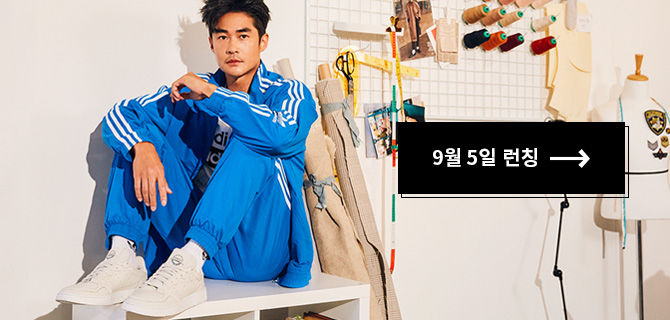
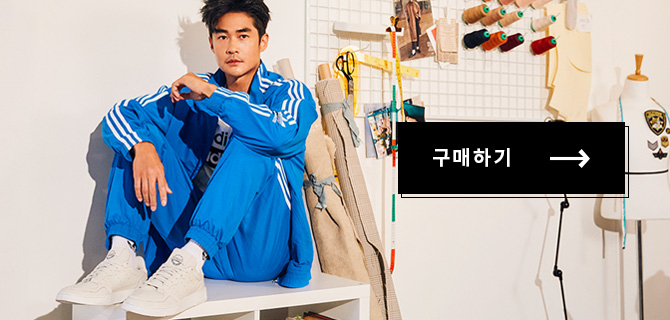
adi_CP_슈퍼코트

Changed region(s): [[0.6269, 0.4375, 0.806, 0.5312]]

diff --git a/mobile/html/adidas/2019/event/originals/supercourt/build/index.html b/mobile/html/adidas/2019/event/originals/supercourt/build/index.html
@@ -438,7 +438,7 @@
        </div>
 
        <div id="container">
-<style type="text/css">@media screen and (max-width: 320px){html{font-size:10px}}@media screen and (min-width: 800px){html{font-size:12px}}.pseudo-element{content:'';display:block}#supercourt{position:relative}#supercourt .button_area_v2{display:inline-block;margin-bottom:2vh}#supercourt .button_area_v2 a{font:700 .9rem/32px 'NotoSansKR';padding:0 5vw;letter-spacing:0;height:38px}#supercourt .button_area_v2 a .arrow{width:20px}#supercourt .button_area_v2 a .arrow::after{width:8px}#supercourt .button_area_v2 a .arrow::before{width:8px}#supercourt img{width:100%}#supercourt .main{position:relative}#supercourt .main .prd_shoe{position:absolute;top:50%;left:50%;transform:translate(-46%, -125%);z-index:2;width:84%}#supercourt .main .bg01{width:100%}#supercourt .main .slide{position:absolute;left:5%;top:25%}#supercourt .main .slide>div img{width:60%;z-index:-1}#supercourt .main .slide>img{position:absolute;top:0;left:0;width:60%;opacity:0;-webkit-opacity:0;-moz-opacity:0;transition:all 1s ease-in;-webkit-transition:all 1s ease-in;-moz-transition:all 1s ease-in}#supercourt .main .slide>img.on{opacity:1;-webkit-opacity:1;-moz-opacity:1}#supercourt .main .txt{text-align:center;position:absolute;bottom:50%;left:50%;transform:translate(-50%, 178%);width:100%}#supercourt .main .txt h1{font:2.9rem/2.9rem 'adinenuPro-bold';color:#000;text-align:center}#supercourt .main .txt p{font:400 1.1rem/1.5rem 'NotoSansKR';color:#000;margin:1rem 0 2rem;text-align:center;letter-spacing:.1rem}#supercourt .evt{position:relative}#supercourt .evt a{position:absolute;text-indent:-9999px;top:60%;left:12%;width:32%;height:7%}#supercourt .evt a.adi_btn{top:71%;left:67%}#supercourt .evt a.gift{left:47%;width:41%;height:7%}#supercourt .content_container{background:url("/images/adidas/2019/event/originals/supercourt/1908_a_supercourt_bg02_MO.jpg") no-repeat;background-position:center;background-size:100% 100%;padding-bottom:30px}#supercourt .content_container .aside{position:relative;text-align:center}#supercourt .content_container .aside img{padding-top:3rem;width:75%}#supercourt .content_container .aside .txt{padding:2rem 0 3rem}#supercourt .content_container .aside .txt h2{font:2rem/2rem 'adinenuPro-bold';color:#000;text-align:center;letter-spacing:.05rem}#supercourt .content_container .aside .txt p{font:500 1rem/1.5rem 'NotoSansKR';color:#000;text-align:center;padding:1rem 0 0;letter-spacing:.05rem}#supercourt .content_container .vid{position:relative;text-align:center;padding:2rem 0 6rem}#supercourt .content_container .vid>a{text-align:center}#supercourt .content_container .vid>a img{width:88%}#supercourt .content_container .vid .txt{padding:2rem 0 0 0}#supercourt .content_container .vid .txt h3{font:2rem/2rem 'adinenuPro-bold';color:#000;text-align:center}#supercourt .content_container .vid .txt p{font:500 1rem/1.5rem 'NotoSansKR';color:#000;text-align:center;padding:1rem 0 0;letter-spacing:.05rem}#supercourt .content_container .grid_cont{position:relative;padding:2rem 1.5rem 0}#supercourt .content_container .grid_cont div::after{display:block;content:'';clear:both}#supercourt .content_container .grid_cont div a{float:left;width:50%}#supercourt .content_container .sect_prdbox{position:relative;padding:6rem 0 5rem 0}#supercourt .content_container .sect_prdbox .banner_slider_wrap{position:relative;top:0rem}#supercourt .content_container .sect_prdbox .banner_slider_wrap ul .owl-item{text-align:center}#supercourt .content_container .sect_prdbox .banner_slider_wrap ul .owl-item li{position:relative;width:100%;margin:0 auto}#supercourt .content_container .sect_prdbox .banner_slider_wrap ul .owl-item li img{display:inline-block;width:90%}#supercourt .content_container .sect_prdbox .banner_slider_wrap ul .owl-nav{display:none}#supercourt .content_container .sect_prdbox .banner_slider_wrap ul .owl-controls{width:100%;text-align:center;position:relative;bottom:-1.5rem}#supercourt .content_container .sect_prdbox .banner_slider_wrap ul .owl-controls .owl-dots{padding-top:1rem;width:100%}#supercourt .content_container .sect_prdbox .banner_slider_wrap ul .owl-controls .owl-dots>div{margin:0 4px;display:inline-block;width:18px;height:2px;border:1px solid #000;box-sizing:border-box;background:#000}#supercourt .content_container .sect_prdbox .banner_slider_wrap ul .owl-controls .owl-dots>div.active{height:5px}#supercourt .content_container .sect_prdbox .txt{position:relative;top:3.5rem;text-align:center}#supercourt .content_container .sect_prdbox .txt h4{font:2rem/2rem 'adinenuPro-bold';color:#000;text-align:center;letter-spacing:.05rem;position:relative;display:inline-block}#supercourt .content_container .sect_prdbox .txt h4::after{display:block;content:'';clear:both;width:100%;background:#000;height:.23rem;position:absolute;bottom:-.9rem}#supercourt .content_container .sect_prdbox .txt p{font:500 1rem/1.5rem 'NotoSansKR';color:#000;text-align:center;padding:2rem 0;letter-spacing:.05rem}@media screen and (min-width: 414px){#supercourt .main .txt{transform:translate(-50%, 190%)}}
+<style type="text/css">@media screen and (max-width: 320px){html{font-size:10px}}@media screen and (min-width: 800px){html{font-size:12px}}.pseudo-element{content:'';display:block}#supercourt{position:relative}#supercourt .button_area_v2{display:inline-block;margin-bottom:2vh}#supercourt .button_area_v2 a{font:700 .9rem/35px 'NotoSansKR';padding:0 5vw;letter-spacing:0;height:38px}#supercourt .button_area_v2 a .arrow{width:20px}#supercourt .button_area_v2 a .arrow::after{width:8px}#supercourt .button_area_v2 a .arrow::before{width:8px}#supercourt img{width:100%}#supercourt .main{position:relative}#supercourt .main .prd_shoe{position:absolute;top:50%;left:50%;transform:translate(-46%, -125%);z-index:2;width:84%}#supercourt .main .bg01{width:100%}#supercourt .main .slide{position:absolute;left:5%;top:25%}#supercourt .main .slide>div img{width:60%;z-index:-1}#supercourt .main .slide>img{position:absolute;top:0;left:0;width:60%;opacity:0;-webkit-opacity:0;-moz-opacity:0;transition:all 1s ease-in;-webkit-transition:all 1s ease-in;-moz-transition:all 1s ease-in}#supercourt .main .slide>img.on{opacity:1;-webkit-opacity:1;-moz-opacity:1}#supercourt .main .txt{text-align:center;position:absolute;bottom:50%;left:50%;transform:translate(-50%, 178%);width:100%}#supercourt .main .txt h1{font:2.9rem/2.9rem 'adinenuPro-bold';color:#000;text-align:center}#supercourt .main .txt p{font:400 1.1rem/1.5rem 'NotoSansKR';color:#000;margin:1rem 0 2rem;text-align:center;letter-spacing:.1rem}#supercourt .main .txt .button_area_v2{display:inline-block;margin-bottom:2vh}#supercourt .main .txt .button_area_v2.first{margin-right:1rem}#supercourt .main .txt .button_area_v2.first a{background:#000}#supercourt .main .txt .button_area_v2 a{font:700 .9rem/35px 'NotoSansKR';padding:0 5vw;background:#333}#supercourt .main .txt .button_area_v2 a::after{z-index:-1}#supercourt .main .txt .button_area_v2 a .arrow{width:20px}#supercourt .evt{position:relative}#supercourt .evt a{position:absolute;text-indent:-9999px;top:60%;left:12%;width:32%;height:7%}#supercourt .evt a.adi_btn{top:71%;left:67%}#supercourt .evt a.gift{left:47%;width:41%;height:7%}#supercourt .content_container{background:url("/images/adidas/2019/event/originals/supercourt/1908_a_supercourt_bg02_MO.jpg") no-repeat;background-position:center;background-size:100% 100%;padding-bottom:30px}#supercourt .content_container .aside{position:relative;text-align:center}#supercourt .content_container .aside img{padding-top:3rem;width:75%}#supercourt .content_container .aside .txt{padding:2rem 0 3rem}#supercourt .content_container .aside .txt h2{font:2rem/2rem 'adinenuPro-bold';color:#000;text-align:center;letter-spacing:.05rem}#supercourt .content_container .aside .txt p{font:500 1rem/1.5rem 'NotoSansKR';color:#000;text-align:center;padding:1rem 0 0;letter-spacing:.05rem}#supercourt .content_container .vid{position:relative;text-align:center;padding:2rem 0}#supercourt .content_container .vid>a{text-align:center}#supercourt .content_container .vid>a img{width:88%}#supercourt .content_container .vid .txt{padding:2rem 0 0 0}#supercourt .content_container .vid .txt h3{font:2rem/2rem 'adinenuPro-bold';color:#000;text-align:center}#supercourt .content_container .vid .txt p{font:500 1rem/1.5rem 'NotoSansKR';color:#000;text-align:center;padding:1rem 0 0;letter-spacing:.05rem}#supercourt .content_container .vid .txt .button_area_v2{margin-top:1rem}#supercourt .content_container .vid .txt .button_area_v2 div{z-index:1}#supercourt .content_container .vid .txt .button_area_v2 div a{background:#333}#supercourt .content_container .vid .txt .button_area_v2 div a::after{z-index:-1}#supercourt .content_container .grid_cont{position:relative;padding:2rem 1.5rem 0}#supercourt .content_container .grid_cont div::after{display:block;content:'';clear:both}#supercourt .content_container .grid_cont div a{float:left;width:50%}#supercourt .content_container .sect_prdbox{position:relative;padding:6rem 0 2rem 0}#supercourt .content_container .sect_prdbox .banner_slider_wrap{position:relative;top:0rem}#supercourt .content_container .sect_prdbox .banner_slider_wrap ul .owl-item{text-align:center}#supercourt .content_container .sect_prdbox .banner_slider_wrap ul .owl-item li{position:relative;width:100%;margin:0 auto}#supercourt .content_container .sect_prdbox .banner_slider_wrap ul .owl-item li img{display:inline-block;width:90%}#supercourt .content_container .sect_prdbox .banner_slider_wrap ul .owl-nav{display:none}#supercourt .content_container .sect_prdbox .banner_slider_wrap ul .owl-controls{width:100%;text-align:center;position:relative;bottom:-1.5rem}#supercourt .content_container .sect_prdbox .banner_slider_wrap ul .owl-controls .owl-dots{padding-top:1rem;width:100%}#supercourt .content_container .sect_prdbox .banner_slider_wrap ul .owl-controls .owl-dots>div{margin:0 4px;display:inline-block;width:20px;height:2px;border:1px solid #000;box-sizing:border-box;background:#000}#supercourt .content_container .sect_prdbox .banner_slider_wrap ul .owl-controls .owl-dots>div.active{height:5px}#supercourt .content_container .sect_prdbox .txt{position:relative;top:3.5rem;text-align:center}#supercourt .content_container .sect_prdbox .txt h4{font:2rem/2rem 'adinenuPro-bold';color:#000;text-align:center;letter-spacing:.01rem;position:relative;display:inline-block}#supercourt .content_container .sect_prdbox .txt h4::after{display:block;content:'';clear:both;width:100%;background:#000;height:.23rem;position:absolute;bottom:-.9rem}#supercourt .content_container .sect_prdbox .txt p{font:500 1rem/1.5rem 'NotoSansKR';color:#000;text-align:center;padding:2rem 0;letter-spacing:.05rem}@media screen and (min-width: 414px){#supercourt .main .txt{transform:translate(-50%, 190%)}}@media screen and (max-width: 320px){#supercourt .main .txt .button_area_v2 a{padding:0 3.5vw;font-weight:500}}
 </style>
 
            <div id="supercourt">
@@ -461,10 +461,18 @@
                             정성을 다해 클래식의 정수를 만들다.<br>
                             거침없이 즐기며 나만의 클래식을 완성하다.                                 
                         </p>
+                        <div class="button_area_v2 first">
+                            <div class="">
+                                <a href="https://m.adidas.co.kr/MO/Promotion/landingPage.action?pageNo=982&term=1">
+                                    구매하기
+                                    <span class="arrow"></span>
+                                </a>
+                            </div>
+                        </div>
                         <div class="button_area_v2">
                             <div class="">
-                                <a href="javascript:void(0)">
-                                    9월 5일 런칭
+                                <a href="https://m.adidas.co.kr/MO/Event/pnEvtView.action?pn=70years&year=">
+                                    아디다스 70년 역사  보러가기
                                     <span class="arrow"></span>
                                 </a>
                             </div>
@@ -472,10 +480,10 @@
                     </div>
                 </div>
                 <div class="evt">
-                    <img src="/images/adidas/2019/event/originals/supercourt/0830/1908_a_supercourt_evt_MO.jpg" alt="">                                        
-                    <a href="javascript:void(0)">9월 5일 런칭</a>
+                    <img src="/images/adidas/2019/event/originals/supercourt/0903/1908_a_supercourt_evt_MO.jpg" alt="">                                        
+                    <a href="https://m.adidas.co.kr/MO/Promotion/landingPage.action?pageNo=982&term=1">구매하기</a>
                     
-                    <a href="javascript:void(0)" onclick="alert('9월 5일 오픈');" class="gift">기프트 신청하기</a>
+                    <a href="javascript:void(0)" onclick="alert('9월 6일 오픈');" class="gift">기프트 신청하기</a>
                     <a href="https://m.adidas.co.kr/MO/Member/memJoin.action" class="adi_btn">아디클럽 가입하기</a>
                 </div>
                 <div class="content_container">
@@ -502,6 +510,14 @@
                                 클래식 코트화에 담긴 역사적인 스토리 박스를 열어<br>
                                 아디다스 레전드를 만나보세요.
                             </p>
+                            <div class="button_area_v2">
+                                <div class="">
+                                    <a href="https://m.adidas.co.kr/MO/Event/pnEvtView.action?pn=70years&year=">
+                                        아디다스 70년 역사  보러가기
+                                        <span class="arrow"></span>
+                                    </a>
+                                </div>
+                            </div>
                         </div>
                     </div>
                     <div class="grid_cont">
@@ -513,7 +529,7 @@
                                 <img src="/images/adidas/2019/event/originals/supercourt/1908_a_supercourt_grid02_MO.jpg" alt="">                                                        
                             </a>
                         </div>
-                        <a href="javascript:void(0)">
+                        <a href="https://m.adidas.co.kr/MO/Promotion/landingPage.action?pageNo=982&term=1">
                             <img src="/images/adidas/2019/event/originals/supercourt/1908_a_supercourt_grid03_MO.jpg" alt="">                                                        
                         </a>
                         <div>
@@ -541,11 +557,11 @@
                         <a href="javascript:void(0)">
                             <img src="/images/adidas/2019/event/originals/supercourt/1908_a_supercourt_grid10_MO.jpg" alt="">                                                        
                         </a>
-                        <a href="javascript:void(0)">
+                        <a href="https://m.adidas.co.kr/MO/Promotion/landingPage.action?pageNo=982&term=1">
                             <img src="/images/adidas/2019/event/originals/supercourt/1908_a_supercourt_grid11_MO.jpg" alt="">                                                        
                         </a>
                     </div>
-                    <!-- <div class="sect_prdbox sliders1">
+                    <div class="sect_prdbox sliders1">
                         <div class="banner_slider_wrap">
                             <ul id="slider_owl_01">
                                 <li>
@@ -579,14 +595,14 @@
                             </P>
                             <div class="button_area_v2">
                                 <div class="">
-                                    <a href="javascript:void(0)">
-                                        9월 5일 런칭
+                                    <a href="https://m.adidas.co.kr/MO/Promotion/landingPage.action?pageNo=982&term=1">
+                                        구매하기
                                         <span class="arrow"></span>
                                     </a>
                                 </div>
                             </div>
                         </div>
-                    </div>   -->
+                    </div>  
 
 
 

diff --git a/mobile/html/adidas/2019/event/originals/supercourt/index.html b/mobile/html/adidas/2019/event/originals/supercourt/index.html
@@ -459,10 +459,18 @@
                             정성을 다해 클래식의 정수를 만들다.<br>
                             거침없이 즐기며 나만의 클래식을 완성하다.                                 
                         </p>
+                        <div class="button_area_v2 first">
+                            <div class="">
+                                <a href="https://m.adidas.co.kr/MO/Promotion/landingPage.action?pageNo=982&term=1">
+                                    구매하기
+                                    <span class="arrow"></span>
+                                </a>
+                            </div>
+                        </div>
                         <div class="button_area_v2">
                             <div class="">
-                                <a href="javascript:void(0)">
-                                    9월 5일 런칭
+                                <a href="https://m.adidas.co.kr/MO/Event/pnEvtView.action?pn=70years&year=">
+                                    아디다스 70년 역사  보러가기
                                     <span class="arrow"></span>
                                 </a>
                             </div>
@@ -470,10 +478,10 @@
                     </div>
                 </div>
                 <div class="evt">
-                    <img src="/images/adidas/2019/event/originals/supercourt/0830/1908_a_supercourt_evt_MO.jpg" alt="">                                        
-                    <a href="javascript:void(0)">9월 5일 런칭</a>
+                    <img src="/images/adidas/2019/event/originals/supercourt/0903/1908_a_supercourt_evt_MO.jpg" alt="">                                        
+                    <a href="https://m.adidas.co.kr/MO/Promotion/landingPage.action?pageNo=982&term=1">구매하기</a>
                     
-                    <a href="javascript:void(0)" onclick="alert('9월 5일 오픈');" class="gift">기프트 신청하기</a>
+                    <a href="javascript:void(0)" onclick="alert('9월 6일 오픈');" class="gift">기프트 신청하기</a>
                     <a href="https://m.adidas.co.kr/MO/Member/memJoin.action" class="adi_btn">아디클럽 가입하기</a>
                 </div>
                 <div class="content_container">
@@ -500,6 +508,14 @@
                                 클래식 코트화에 담긴 역사적인 스토리 박스를 열어<br>
                                 아디다스 레전드를 만나보세요.
                             </p>
+                            <div class="button_area_v2">
+                                <div class="">
+                                    <a href="https://m.adidas.co.kr/MO/Event/pnEvtView.action?pn=70years&year=">
+                                        아디다스 70년 역사  보러가기
+                                        <span class="arrow"></span>
+                                    </a>
+                                </div>
+                            </div>
                         </div>
                     </div>
                     <div class="grid_cont">
@@ -511,7 +527,7 @@
                                 <img src="/images/adidas/2019/event/originals/supercourt/1908_a_supercourt_grid02_MO.jpg" alt="">                                                        
                             </a>
                         </div>
-                        <a href="javascript:void(0)">
+                        <a href="https://m.adidas.co.kr/MO/Promotion/landingPage.action?pageNo=982&term=1">
                             <img src="/images/adidas/2019/event/originals/supercourt/1908_a_supercourt_grid03_MO.jpg" alt="">                                                        
                         </a>
                         <div>
@@ -539,11 +555,11 @@
                         <a href="javascript:void(0)">
                             <img src="/images/adidas/2019/event/originals/supercourt/1908_a_supercourt_grid10_MO.jpg" alt="">                                                        
                         </a>
-                        <a href="javascript:void(0)">
+                        <a href="https://m.adidas.co.kr/MO/Promotion/landingPage.action?pageNo=982&term=1">
                             <img src="/images/adidas/2019/event/originals/supercourt/1908_a_supercourt_grid11_MO.jpg" alt="">                                                        
                         </a>
                     </div>
-                    <!-- <div class="sect_prdbox sliders1">
+                    <div class="sect_prdbox sliders1">
                         <div class="banner_slider_wrap">
                             <ul id="slider_owl_01">
                                 <li>
@@ -577,14 +593,14 @@
                             </P>
                             <div class="button_area_v2">
                                 <div class="">
-                                    <a href="javascript:void(0)">
-                                        9월 5일 런칭
+                                    <a href="https://m.adidas.co.kr/MO/Promotion/landingPage.action?pageNo=982&term=1">
+                                        구매하기
                                         <span class="arrow"></span>
                                     </a>
                                 </div>
                             </div>
                         </div>
-                    </div>   -->
+                    </div>  
 
 
 

diff --git a/mobile/html/adidas/2019/event/originals/supercourt/index.scss b/mobile/html/adidas/2019/event/originals/supercourt/index.scss
@@ -7,7 +7,7 @@
 		display: inline-block;
 		margin-bottom: 2vh;
 		a{
-			font: 700 .9rem/32px 'NotoSansKR';
+			font: 700 .9rem/35px 'NotoSansKR';
 			padding: 0 5vw;
 			letter-spacing: 0;
 			height: 38px;
@@ -27,10 +27,6 @@
 	}
 	.main{
 		position: relative;
-		// background:url('/images/adidas/2019/event/originals/supercourt/1908_a_supercourt_bg01_MO.jpg') no-repeat;
-		// background-position: center;
-		// background-size: 100% 100%;
-		// padding-top:52%;
 		.prd_shoe{
 			position: absolute;
 			top: 50%;
@@ -83,6 +79,27 @@
 				margin: 1rem 0 2rem;
 				text-align: center;
 				letter-spacing: .1rem;
+			}
+			.button_area_v2{
+				display: inline-block;
+				margin-bottom: 2vh;
+				&.first{
+					margin-right: 1rem;
+					a{
+						background:#000;
+					}
+				}
+				a{
+					font: 700 .9rem/35px 'NotoSansKR';
+					padding: 0 5vw;
+					background:#333;
+					&::after{
+						z-index: -1;
+					}
+					.arrow{
+						width:20px;
+					}
+				}
 			}
 		}
 	}
@@ -140,7 +157,7 @@
 		.vid{
 			position: relative;
 			text-align: center;
-			padding: 2rem 0 6rem;
+			padding: 2rem 0;
 			>a{
 				text-align: center;
 				img{
@@ -160,6 +177,18 @@
 					text-align: center;
 					padding:1rem 0 0;
 					letter-spacing: .05rem;
+				}
+				.button_area_v2{
+					margin-top:1rem;
+					div{
+						z-index: 1;
+						a{
+							background:#333;
+							&::after{
+								z-index:-1;
+							}
+						}
+					}
 				}
 			}
 		}
@@ -183,7 +212,7 @@
 
 		.sect_prdbox{
 			position: relative;
-			padding: 6rem 0 5rem 0;
+			padding: 6rem 0 2rem 0;
 			.banner_slider_wrap{
 				position: relative;
 				top:0rem;
@@ -214,7 +243,7 @@
 							>div{
 								margin: 0 4px;
 								display: inline-block;
-								width: 18px;
+								width: 20px;
 								height: 2px;
 								border: 1px solid #000;
 								box-sizing: border-box;
@@ -235,7 +264,7 @@
 					font: 2rem/2rem 'adinenuPro-bold';
 					color:#000;
 					text-align: center;
-					letter-spacing: .05rem;		
+					letter-spacing: .01rem;		
 					position: relative;		
 					display: inline-block;	
 					&::after{
@@ -272,6 +301,21 @@
 		.main{
 			.txt{
 				transform: translate(-50%, 190%);
+			}
+		}
+	}
+}
+@media screen and (max-width:320px) {
+	#supercourt{
+		.main{
+			.txt{
+				.button_area_v2{
+					a{
+						// font: 700 .7rem/32px 'NotoSansKR';
+						padding: 0 3.5vw;
+						font-weight: 500;
+					}
+				}
 			}
 		}
 	}
